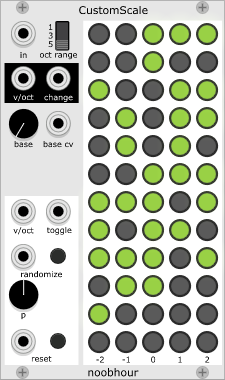
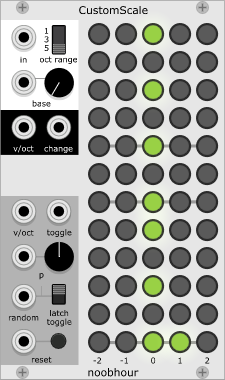
add documentation

diff --git a/src/customscale.cpp b/src/customscale.cpp
@@ -12,12 +12,12 @@
 // - button back for randomization
 
 // TODO
-// attenuator? or context menu switch between 0-10 and -5..5 - Pyer Cllrd
 
 // IN PROGRESS
 // bus
 
 // DONE
+// context menu switch between 0-10 and -5..5 - (was attenuator - Pyer Cllrd)
 // Normalizing the gate input to all following inputs (with nothing plugged in them) would be amazing (instead of 4 copies of the same cable) Patrick McIlveen
 // Normalized HIGH and LOW inputs as well
 // Normalizing all of the outputs to the last one (a la AS 4ch baby mixer and Audible) Patrick McIlveen

diff --git a/README.md b/README.md
@@ -6,14 +6,14 @@ A 4x probabilistic attenuverting switch.
 
 ![Baseliner](./doc/Baseliner.png)
 
-Baseliner returns one of two possible signals (*High* or *Low*), based
-on a gate input. In its basic state, it will return *High* if
-the gate is active and *Low* otherwise. 
+**Baseliner** returns one of two possible signals (**High** or **Low**), based
+on a gate input. In its basic state, it will return **High** if
+the gate is active and **Low** otherwise. 
 
-"I see that *Low* defaults to 0, so are you saying you re-invented the
+"I see that **Low** defaults to 0, so are you saying you re-invented the
 AND gate?" Yea, kind of (awesome, no?). But there are a number of ways
 to modify this basic behaviour which I often find useful in turning
-raw CV into music. They relate to shaping *High* and *Low*,
+raw CV into music. They relate to shaping **High** and **Low**,
 and to deciding which signal to return.
 
 ### Signal shaping 
@@ -23,10 +23,10 @@ gate is on, but have it fall back to a definable baseline, not just 0,
 when it's off, hence its name. 
 
 The ways the two signals can be shaped are the same for both; the only
-difference is when they are returned. Both *High* and *Low* are computed
-as their respective input * *att* + *abs*. If no input is given, this
-lets you dial in a constant value via *abs* (-5V..5V). Once you provide
-an input, you can offset it using *abs* and attenuate it via *att*, which
+difference is when they are returned. Both **High** and **Low** are computed
+as their respective input * **att** + **abs**. If no input is given, this
+lets you dial in a constant value via **abs** (-5V..5V). Once you provide
+an input, you can offset it using **abs** and attenuate it via **att**, which
 is an "attenuverter" i.e. also lets you invert the signal as its value
 can be set from -1 to 1. Outputs are clipped to -10V..10V.
 
@@ -36,7 +36,7 @@ can be set from -1 to 1. Outputs are clipped to -10V..10V.
 The controls in the darker, lower area of the module can be used to
 modify which signal is returned when.
 
-Besides the regular *Gate* mode, there are two modes, *Latch* and *Toggle*,
+Besides the regular **Gate** mode, there are two modes, **Latch** and **Toggle**,
 which behave like the modes in
 [Audible Instruments](https://github.com/VCVRack/AudibleInstruments)
 Bernoulli Gate (a software implementation of
@@ -44,22 +44,22 @@ Bernoulli Gate (a software implementation of
 There is also a probability input which is computed as the sum of the
 knob value (0..1) and the CV input.
 
-- In *Gate* mode, *High* is returned if *Gate* is on - but only with
-  probability *p*, determined each time *Gate* triggers (switches from off
+- In **Gate** mode, **High** is returned if **Gate** is on - but only with
+  probability **p**, determined each time **Gate** triggers (switches from off
   to on).
 
-- In *Latch* mode, *Gate* is only used as a trigger: When it triggers, the
-  output switches to *High* with probability *p* or to *Low* otherwise.
+- In **Latch** mode, **Gate** is only used as a trigger: When it triggers, the
+  output switches to **High** with probability **p** or to **Low** otherwise.
 
-- In *Toggle* mode, *Gate* is only used as a trigger as well: When it
-  triggers, the output switches from *Low* to *High* or from *High* to
-  *Low* with probability *p*.
+- In **Toggle** mode, **Gate** is only used as a trigger as well: When it
+  triggers, the output switches from **Low** to **High** or from **High** to
+  **Low** with probability **p**.
   
 ### Daisy-chaining
 
 All the inputs are normalized to the left and the outputs are normalized to the right:
 
-- Any unpatched input (*Gate*, *High* or *Low*) will receive its value
+- Any unpatched input (**Gate**, **High** or **Low**) will receive its value
   from its first patched input from the left.
 - Any unpatched output will contribute its value to the right. The
   next patched output will return the average of its own value plus
@@ -69,17 +69,17 @@ All the inputs are normalized to the left and the outputs are normalized to the 
 
 ### Patching suggestions
 
-- If you don't provide any input but just raise *High*'s *abs* value,
+- If you don't provide any input but just raise **High**'s **abs** value,
   gate triggers will create another gate trigger at the output,
   allowing you to e.g. modify the probability of the trigger passing
   through.
-- If you send signals only to *Low* and patch the right-most output,
-  you have an improvised mixer where *att* controls the volume.
+- If you send signals only to **Low** and patch the right-most output,
+  you have an improvised mixer where **att** controls the volume.
   
   
 ### Video
 
-Check out the video below, which shows Baseliner in action. It serves
+Check out the video below, which shows **Baseliner** in action. It serves
 as a rhythm generator, mixer, distorter, melody creator, and drum
 sequencer.
 
@@ -90,14 +90,16 @@ A customizable and writable quantizer.
 
 ![CustomScale](./doc/CustomScale.png)
 
-CustomScale turns a 0V..10V input into V/Oct output, scaling the input
-value over the tones selected in the matrix. The input is distributed
-evenly over the activated tones, so if you have CDEF activated, 0-2.5V
-will trigger the C, 2.5001V-5V will trigger D and so on. The center
-light in the bottom row corresponds to a V/Oct output of 0, C4 if fed
-into an otherwise unmodulated oscillator. Each row further up
-represents one half-tone higher, whereas columns to the left and right
-represent lower and higher octaves, respectively.
+**CustomScale** turns a continuous input signal into V/Oct output, scaling
+the input value over the tones selected in the matrix. By default, it
+expects a 0V..10V input, but the context menu allows to switch to
+-5V..5V inputs. The input is distributed evenly over the activated
+tones, so if you have CDEF activated, 0-2.5V will trigger the C,
+2.5001V-5V will trigger D and so on. The center light in the bottom
+row corresponds to a V/Oct output of 0, C4 if fed into an otherwise
+unmodulated oscillator. Each row further up represents one half-tone
+higher, whereas columns to the left and right represent lower and
+higher octaves, respectively.
 
 Next to the matrix, there are two areas with controls: The upper one
 contains all controls related to playing an existing scale, the lower
@@ -105,33 +107,61 @@ one modifies the scale matrix.
 
 ### Playing
 
-- *in* receives the CV to be turned into V/Oct. 
-- *oct range* controls which of the octaves are used.
-- *v/oct* sends the computed V/Oct.
-- *change* sends a trigger everytime v/oct changes. 
-- *base* adds up to 11 half-tones to the output.
-- *base cv* expects a -10V..10V input, adding -11 to 11 half-tones to
-  the *base* knobs setting; the final base value will still be 0..11 (C
+- **in** receives the CV to be turned into V/Oct. 
+- **oct range** controls which of the octaves are used.
+- **v/oct** sends the computed V/Oct.
+- **change** sends a trigger everytime v/oct changes. 
+- **base** adds up to 11 half-tones to the output.
+- **base cv** expects a -10V..10V input, adding -11 to 11 half-tones to
+  the **base** knobs setting; the final base value will still be 0..11 (C
   to B,if you will).
 
 ### Modifying 
 
-- *v/oct* receives a frequency. If the tone has a corresponding light
-  on the matrix, it will be toggled when *toggle* receives a
+- **v/oct** receives a frequency. If the tone has a corresponding light
+  on the matrix, it will be toggled when **toggle** receives a
   trigger. This means you can control the matrix from e.g. a keyboard
-  or a sequencer (or another CustomScale, gasp). The *base* offset is
+  or a sequencer (or another **CustomScale**, gasp). The **base** offset is
   not taken into consideration).
-- *randomize* will set the matrix randomly, with the probability of a
-  particular light being on controlled by *p*.
-- *reset* will turn off all lights on the matrix. 
+- **random** randomizes which tones are selected in the matrix,
+  according to **p** and **latch/toggle**, see below. 
+  
+  When you first trigger **random**, it will consider all active tones
+  and determine whether to leave them on or off.  If a tone is turned
+  off, it will remain a "candidate" (yellow), such that at a future
+  **random** trigger, it will be reconsidered for activation. Like
+  this, you can define a
+  scale and randomly select parts of it using this function.  
+  
+  If no tone is active when **random** receives a trigger, all tones
+  become candidates, such that a truly random selection across all
+  tones occurs, similar to the behaviour of the *randomize* trigger in
+  an earlier version of **CustomScale**.
+  
+- **p** and **latch/toggle** determine the behaviour when **random** is triggered.
+
+	**p** is computed as the sum of the knob value and the CV input, clamped to 0..1.
+
+	In **latch** mode, a tone will be activated with **p** probability.
+	
+	In **toggle** mode, a tone will be *toggled* with **p**
+    probability. This lets you, for example, create slowly changes in
+    the scale over time, versus a complete re-roll on every **random**
+    trigger as created by the **latch** mode. 
+	
+	As noted in the **Baseliner** documentation, this behaviour is modeled
+	after the Bernoulli gate / Branches module.
+
+
+- **reset** will turn off all lights on the matrix. 
 
 
 ### Videos
 
-Check out the video below, which shows several instances of CustomScale in action.
+Check out the video below, which shows several instances of **CustomScale** in action.
 [![CustomScale demo](http://img.youtube.com/vi/rC2DJ2JbXHE/0.jpg)](http://www.youtube.com/watch?v=rC2DJ2JbXHE)
 
-The video below shows some less conventional uses of CustomScale
+The video below shows some less conventional uses of **CustomScale**
 [![CustomScale demo](http://img.youtube.com/vi/ja4_e43hRFA/0.jpg)](http://www.youtube.com/watch?v=ja4_e43hRFA)
 
 
